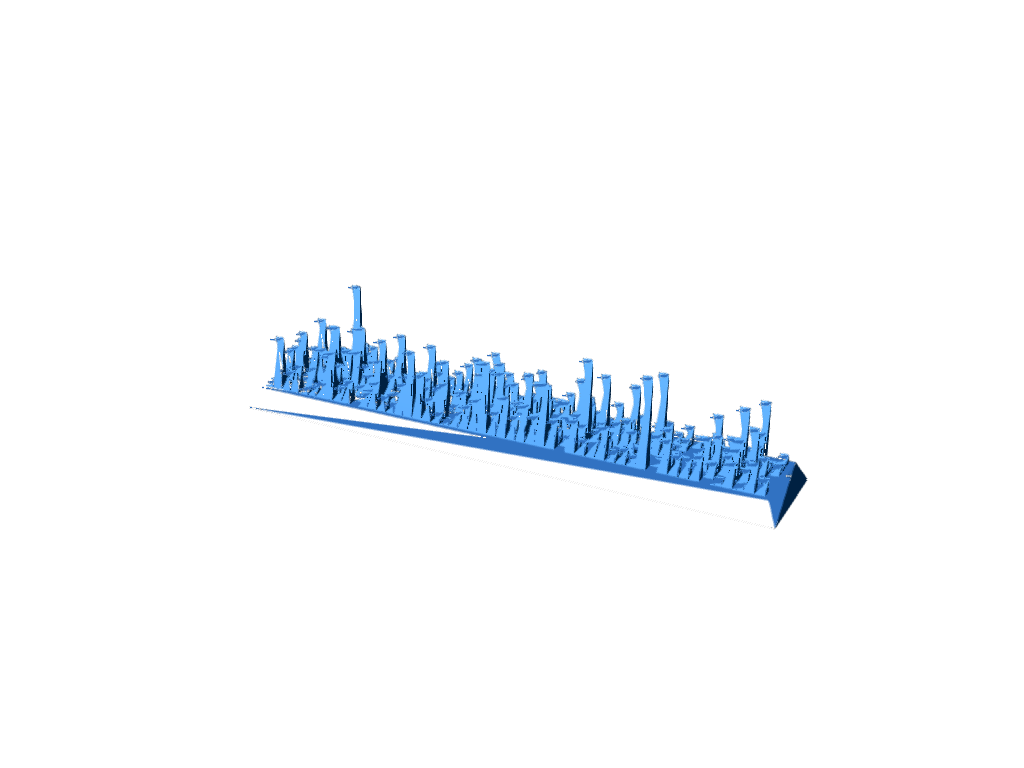
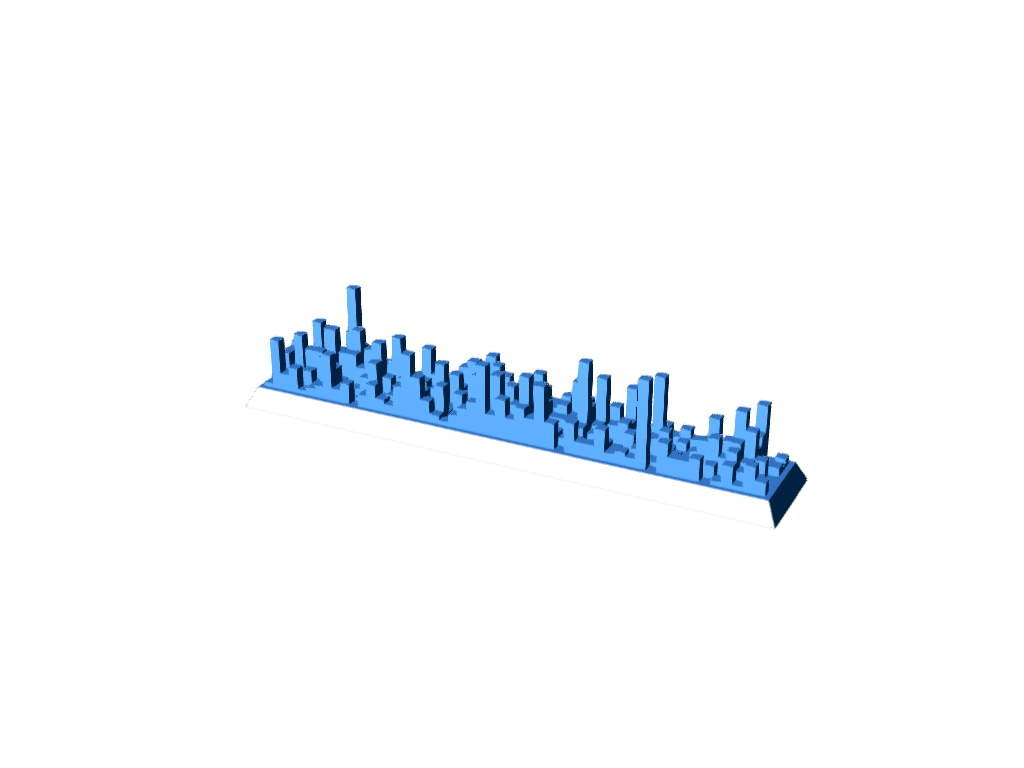
Clean up, fix preview, add clip option, add LICENSE

Changed region(s): [[0.25, 0.375, 0.7812, 0.6875]]

diff --git a/src/model.rs b/src/model.rs
@@ -3,6 +3,25 @@ use anyhow::anyhow;
 use rust_3d::{io, IsFaceEditableMesh, Mesh3D, Point3D, PointCloud3D, Precision};
 use std::fs::File;
 
+#[allow(clippy::redundant_clone)]
+fn quad3d(points: [Point3D; 8]) -> Vec<(Point3D, Point3D, Point3D)> {
+    let [p0, p1, p2, p3, p4, p5, p6, p7] = points;
+    vec![
+        (p0.clone(), p1.clone(), p2.clone()),
+        (p0.clone(), p2.clone(), p3.clone()), // bottom
+        (p4.clone(), p5.clone(), p6.clone()),
+        (p4.clone(), p6.clone(), p7.clone()), // top
+        (p3.clone(), p0.clone(), p4.clone()),
+        (p3.clone(), p4.clone(), p7.clone()), // left
+        (p1.clone(), p2.clone(), p6.clone()),
+        (p1.clone(), p6.clone(), p5.clone()), // right
+        (p0.clone(), p1.clone(), p5.clone()),
+        (p0.clone(), p5.clone(), p4.clone()), // front
+        (p2.clone(), p3.clone(), p7.clone()),
+        (p2.clone(), p7.clone(), p6.clone()), // back
+    ]
+}
+
 fn commit_brick(
     center: &Point3D,
     length: f64,
@@ -52,20 +71,7 @@ fn commit_brick(
         center.y + half_width,
         center.z + half_height,
     );
-    vec![
-        (p0.clone(), p1.clone(), p2.clone()),
-        (p3.clone(), p2.clone(), p0.clone()), // bottom
-        (p4.clone(), p5.clone(), p6.clone()),
-        (p7.clone(), p6.clone(), p4.clone()), // top
-        (p3.clone(), p0.clone(), p4.clone()),
-        (p4.clone(), p7.clone(), p3.clone()), // left
-        (p1.clone(), p2.clone(), p6.clone()),
-        (p5.clone(), p6.clone(), p1.clone()), // right
-        (p0.clone(), p1.clone(), p5.clone()),
-        (p4.clone(), p5.clone(), p0.clone()), // front
-        (p2.clone(), p3.clone(), p7.clone()),
-        (p6.clone(), p7.clone(), p2.clone()), // back
-    ]
+    quad3d([p0, p1, p2, p3, p4, p5, p6, p7])
 }
 
 fn plinth(
@@ -121,20 +127,7 @@ fn plinth(
         center.y + half_top_width,
         center.z + half_height,
     );
-    vec![
-        (p0.clone(), p1.clone(), p2.clone()),
-        (p3.clone(), p2.clone(), p0.clone()), // bottom
-        (p4.clone(), p5.clone(), p6.clone()),
-        (p7.clone(), p6.clone(), p4.clone()), // top
-        (p3.clone(), p0.clone(), p4.clone()),
-        (p4.clone(), p7.clone(), p3.clone()), // left
-        (p1.clone(), p2.clone(), p6.clone()),
-        (p5.clone(), p6.clone(), p1.clone()), // right
-        (p0.clone(), p1.clone(), p5.clone()),
-        (p4.clone(), p5.clone(), p0.clone()), // front
-        (p2.clone(), p3.clone(), p7.clone()),
-        (p6.clone(), p7.clone(), p2.clone()), // back
-    ]
+    quad3d([p0, p1, p2, p3, p4, p5, p6, p7])
 }
 
 pub fn build_trophy(heightmap: &[CommitCount]) -> anyhow::Result<()> {

diff --git a/src/main.rs b/src/main.rs
@@ -9,9 +9,11 @@ use crate::model::build_trophy;
 use anyhow::bail;
 use chrono::{Datelike, TimeZone, Utc};
 use git2::Repository;
+use std::cmp::min;
 use std::collections::{HashMap, HashSet};
 use std::path::PathBuf;
 use std::str::FromStr;
+use std::usize;
 
 type Year = i32;
 type DaysYear = i64;
@@ -27,6 +29,7 @@ fn build_history_heightmap(
     repo: &Repository,
     year_selected: Option<i32>,
     commiter_names_selected: &Option<Vec<String>>,
+    clip_commit: Option<CommitCount>,
 ) -> anyhow::Result<Vec<CommitCount>> {
     let mut walker = repo.revwalk()?;
     walker.push_glob("*")?;
@@ -68,7 +71,14 @@ fn build_history_heightmap(
         .map(|year_day| {
             years
                 .iter()
-                .map(|year| commit_history.get(&(*year, year_day)).unwrap_or(&0))
+                .map(|year| {
+                    let commit_count = commit_history.get(&(*year, year_day)).unwrap_or(&0);
+
+                    match clip_commit {
+                        None => *commit_count,
+                        Some(max_commit_count) => min(*commit_count, max_commit_count),
+                    }
+                })
                 .sum()
         })
         .collect();
@@ -80,10 +90,16 @@ fn main() -> anyhow::Result<()> {
     let matches = cli::get_command().get_matches();
     let repository_path = matches.value_of("repository").expect("compulsory argument");
     let year = matches.value_of("year").map(|s| i32::from_str(s));
+    let clip = matches.value_of("clip").map(|s| usize::from_str(s));
     let commiter_names_selected: Option<Vec<String>> = matches
         .values_of("names")
         .map(|names| names.into_iter().map(String::from).collect());
     let year_selected = match year {
+        None => None,
+        Some(Err(e)) => bail!("{}", e),
+        Some(Ok(y)) => Some(y),
+    };
+    let clip_commit = match clip {
         None => None,
         Some(Err(e)) => bail!("{}", e),
         Some(Ok(y)) => Some(y),
@@ -94,7 +110,8 @@ fn main() -> anyhow::Result<()> {
         Err(e) => panic!("failed to open: {}", e),
     };
 
-    let commit_heightmap = build_history_heightmap(&repo, year_selected, &commiter_names_selected)?;
+    let commit_heightmap =
+        build_history_heightmap(&repo, year_selected, &commiter_names_selected, clip_commit)?;
 
     build_trophy(&commit_heightmap)?;
 

diff --git a/src/cli.rs b/src/cli.rs
@@ -20,10 +20,17 @@ pub fn get_command() -> Command<'static> {
         )
         .arg(
             Arg::new("names")
-                .help("filter commit with committer name")
+                .help("filter commits with committer name")
                 .long("names")
                 .takes_value(true)
                 .multiple_values(true)
+                .required(false),
+        )
+        .arg(
+            Arg::new("clip")
+                .help("clip commits (limit max number of commits per day)")
+                .long("clip")
+                .takes_value(true)
                 .required(false),
         )
 }

diff --git a/README.md b/README.md
@@ -1,4 +1,4 @@
-# Generate Git 3D Trophy
+# Generate Git 3D Commit History Trophy
 
 ```
 cargo run --release ~/clones/cargo --year 2021
@@ -9,3 +9,7 @@ cargo run --release ~/clones/cargo --year 2021
 ![stl file preview](./trophy.png)
 
 > preview generated using [stl-thumb (https://github.com/unlimitedbacon/stl-thumb)](https://github.com/unlimitedbacon/stl-thumb)
+
+## License
+
+Dual-licensed under MIT or the Apache License V2.0.
